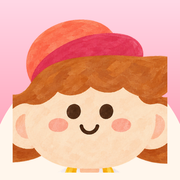
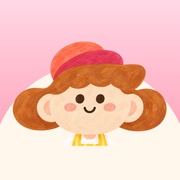
아이콘 얼굴 수정 · 보이는 높이 기준 크기 · 맵 맨 아래 시작 · 아이폰 햅틱

diff --git a/sw.js b/sw.js
@@ -1,7 +1,7 @@
 // 서비스 워커 (tools/build_pwa.py 가 버전과 파일 목록을 채워 dist/sw.js 로 만든다)
 // 설치 때 게임 파일을 전부 저장해 두고, 그 뒤로는 저장된 것을 먼저 쓴다 → 오프라인에서도 열린다.
 // 파일이 바뀌면 버전이 달라져 새 워커가 설치되고, 앱을 다시 열면 새 버전이 뜬다.
-const VERSION = '03ef19c49d';
+const VERSION = '3631c23f21';
 const CACHE = 'hanja7-' + VERSION;
 const FILES = ["index.html", "manifest.webmanifest", "css/style.css", "css/tune.css", "css/ui-kit.css", "js/main.js", "js/quiz.js", "js/wall.js", "js/core/audio.js", "js/core/demo.js", "js/core/scale.js", "js/core/skin.js", "js/core/store.js", "js/core/tune.js", "js/core/tunePanel.js", "js/core/ui.js", "js/screens/book.js", "js/screens/diary.js", "js/screens/game.js", "js/screens/learn.js", "js/screens/map.js", "js/screens/result.js", "js/screens/stickers.js", "js/screens/title.js", "js/data/charStickers.js", "js/data/hanja.js", "js/data/stages.js", "js/data/tuning.json", "icons/apple-touch-icon.png", "icons/icon-192.png", "icons/icon-512.png", "assets/ui/panel/mask_panel_avatar_chat.png", "assets/ui/panel/mask_panel_avatar_frame.png", "assets/ui/panel/mask_panel_avatar_profile.png", "assets/ui/panel/notebook_page.png", "assets/ui/panel/notebook_short.png", "assets/ui/panel/panel_avatar_chat.png", "assets/ui/panel/panel_avatar_frame.png", "assets/ui/panel/panel_avatar_profile.png", "assets/ui/panel/panel_bottom_sheet.png", "assets/ui/panel/panel_chat_bubble.png", "assets/ui/panel/panel_chat_bubble_2.png", "assets/ui/panel/panel_chat_bubble_2_body.png", "assets/ui/panel/panel_chat_bubble_2_tail.png", "assets/ui/panel/panel_currency_pill.png", "assets/ui/panel/panel_divider_dash.png", "assets/ui/panel/panel_header_pill.png", "assets/ui/panel/panel_item_cell.png", "assets/ui/panel/panel_label_pill.png", "assets/ui/panel/panel_mission.png", "assets/ui/panel/panel_modal_card.png", "assets/ui/panel/panel_notebook.png", "assets/ui/panel/panel_photo_card.png", "assets/ui/panel/panel_product_card.png", "assets/ui/panel/panel_profile.png", "assets/ui/panel/panel_ribbon.png", "assets/ui/panel/panel_ribbon_pink.png", "assets/ui/panel/panel_xpbar_fill.png", "assets/ui/panel/panel_xpbar_track.png", "assets/ui/fx/fx_sparkle_sheet.png", "assets/ui/sticker/sticker_ribbon.png", "assets/ui/btn/btn_back_round.png", "assets/ui/btn/btn_close_round.png", "assets/ui/btn/btn_coating.png", "assets/ui/btn/btn_cta.png", "assets/ui/btn/btn_map_node.png", "assets/ui/btn/btn_menu.png", "assets/ui/btn/btn_modal.png", "assets/ui/btn/btn_next_round.png", "assets/ui/btn/btn_radio_off.png", "assets/ui/btn/btn_radio_on.png", "assets/ui/btn/btn_slot.png", "assets/ui/btn/btn_tab_off.png", "assets/ui/btn/btn_tab_on.png", "assets/ui/map/badge_clear.png", "assets/ui/map/bg_map_candy.jpg", "assets/ui/map/card_frame.png", "assets/ui/map/lock_blue.png", "assets/ui/map/lock_gold.png", "assets/ui/map/lock_green.png", "assets/ui/map/lock_orange.png", "assets/ui/map/lock_pink.png", "assets/ui/map/lock_purple.png", "assets/ui/map/lock_silver.png", "assets/ui/map/node_blue.png", "assets/ui/map/node_grape.png", "assets/ui/map/node_kiwi.png", "assets/ui/map/node_lock.png", "assets/ui/map/node_muscat.png", "assets/ui/map/node_orange.png", "assets/ui/map/node_straw.png", "assets/ui/map/star_pink.png", "assets/ui/map/_unused/gate_ch2.png", "assets/ui/map/_unused/ground.png", "assets/ui/map/_unused/map.json", "assets/ui/map/_unused/road_brown.png", "assets/ui/map/_unused/road_pink.png", "assets/ui/map/_unused/stall_1.png", "assets/ui/map/_unused/stall_1_lock.png", "assets/ui/map/_unused/stall_2.png", "assets/ui/map/_unused/stall_2_lock.png", "assets/ui/map/_unused/stall_3.png", "assets/ui/map/_unused/stall_3_lock.png", "assets/ui/map/_unused/stall_4.png", "assets/ui/map/_unused/stall_4_lock.png", "assets/ui/map/_unused/stall_5.png", "assets/ui/map/_unused/stall_5_lock.png", "assets/ui/map/_unused/stall_6.png", "assets/ui/map/_unused/stall_6_lock.png", "assets/ui/map/_unused/stall_7.png", "assets/ui/map/_unused/win_clear.png", "assets/ui/map/_unused/win_open.png", "assets/ui/cook/jar_choco.png", "assets/ui/cook/jar_rainbow.png", "assets/ui/cook/jar_sugar.png", "assets/ui/cook/pot.png", "assets/ui/cook/pot_syrup_choco.png", "assets/ui/cook/pot_syrup_rainbow.png", "assets/ui/cook/pot_syrup_sugar.png", "assets/ui/cook/stick.png", "assets/ui/ptn/ptn_dash_grid.png", "assets/ui/bg/bg_awning.png", "assets/ui/bg/bg_coating.jpg", "assets/ui/bg/bg_done.jpg", "assets/ui/bg/bg_map_path.png", "assets/ui/bg/bg_result.jpg", "assets/ui/bg/bg_sale.jpg", "assets/ui/bg/bg_splash.jpg", "assets/ui/icon/icon_book.png", "assets/ui/icon/icon_dropzone.png", "assets/ui/icon/icon_heart.png", "assets/ui/icon/icon_jelly.png", "assets/ui/icon/icon_lock.png", "assets/ui/icon/icon_notif_dot.png", "assets/ui/icon/icon_pencil.png", "assets/ui/icon/icon_pin.png", "assets/ui/icon/icon_skewer_progress.png", "assets/ui/icon/icon_speaker.png", "assets/ui/icon/icon_star_empty.png", "assets/ui/icon/icon_star_empty_2.png", "assets/ui/icon/icon_star_full.png", "assets/ui/icon/icon_star_full_2.png", "assets/ui/icon/icon_step_current.png", "assets/ui/icon/icon_step_done.png", "assets/ui/icon/icon_sticker.png", "assets/ui/icon/icon_stir_arrow.png", "assets/chars/bear.png", "assets/chars/boss.png", "assets/chars/cat.png", "assets/chars/dog.png", "assets/chars/face_bear.png", "assets/chars/face_boss.png", "assets/chars/face_cat.png", "assets/chars/face_dog.png", "assets/chars/face_owl.png", "assets/chars/face_rabbit.png", "assets/chars/owl.png", "assets/chars/rabbit.png", "assets/chars/roles.json", "assets/chars/stk/01.png", "assets/chars/stk/02.png", "assets/chars/stk/03.png", "assets/chars/stk/04.png", "assets/chars/stk/05.png", "assets/chars/stk/06.png", "assets/chars/stk/08.png", "assets/chars/stk/10.png", "assets/chars/stk/11.png", "assets/chars/stk/12.png", "assets/chars/stk/13.png", "assets/chars/stk/16.png", "assets/chars/stk/17.png", "assets/chars/stk/18.png", "assets/chars/stk/19.png", "assets/chars/stk/20.png", "assets/chars/stk/23.png", "assets/chars/stk/24.png", "assets/img/bowl.svg", "assets/img/char_bear.svg", "assets/img/char_bear_happy.svg", "assets/img/char_boss.svg", "assets/img/char_boss_happy.svg", "assets/img/char_cat.svg", "assets/img/char_cat_happy.svg", "assets/img/char_dog.svg", "assets/img/char_dog_happy.svg", "assets/img/char_owl.svg", "assets/img/char_owl_happy.svg", "assets/img/char_rabbit.svg", "assets/img/char_rabbit_happy.svg", "assets/img/fruit_blueberry.svg", "assets/img/fruit_blueberry_one.svg", "assets/img/fruit_goldberry.svg", "assets/img/fruit_grape.svg", "assets/img/fruit_grape_one.svg", "assets/img/fruit_kiwi.svg", "assets/img/fruit_muscat.svg", "assets/img/fruit_muscat_one.svg", "assets/img/fruit_pineapple.svg", "assets/img/fruit_strawberry.svg", "assets/img/fruit_tangerine.svg", "assets/img/fruit_tangerine_seg.svg", "assets/img/fruit_tomato.svg", "assets/img/hand.svg", "assets/img/jar_choco.svg", "assets/img/jar_rainbow.svg", "assets/img/jar_sugar.svg", "assets/img/jelly.svg", "assets/img/map_bg.svg", "assets/img/pot.svg", "assets/img/pot_choco.svg", "assets/img/pot_rainbow.svg", "assets/img/pot_sugar.svg", "assets/img/star_off.svg", "assets/img/star_on.svg", "assets/img/sticker_badge.svg", "assets/img/sticker_energy.svg", "assets/img/sticker_flower.svg", "assets/img/sticker_ribbon.svg", "assets/img/sticker_seasons.svg", "assets/img/sticker_sky.svg", "assets/img/sun.svg", "assets/fruits/apple.png", "assets/fruits/apple_piece.png", "assets/fruits/apple_piece_choco.png", "assets/fruits/apple_piece_rainbow.png", "assets/fruits/apple_piece_sugar.png", "assets/fruits/avocado.png", "assets/fruits/avocado_piece.png", "assets/fruits/avocado_piece_choco.png", "assets/fruits/avocado_piece_rainbow.png", "assets/fruits/avocado_piece_sugar.png", "assets/fruits/banana.png", "assets/fruits/banana_piece.png", "assets/fruits/banana_piece_choco.png", "assets/fruits/banana_piece_rainbow.png", "assets/fruits/banana_piece_sugar.png", "assets/fruits/blueberry.png", "assets/fruits/blueberry_piece.png", "assets/fruits/blueberry_piece_choco.png", "assets/fruits/blueberry_piece_rainbow.png", "assets/fruits/blueberry_piece_sugar.png", "assets/fruits/cherry.png", "assets/fruits/cherry_piece.png", "assets/fruits/cherry_piece_choco.png", "assets/fruits/cherry_piece_rainbow.png", "assets/fruits/cherry_piece_sugar.png", "assets/fruits/dragonfruit.png", "assets/fruits/dragonfruit_piece.png", "assets/fruits/dragonfruit_piece_choco.png", "assets/fruits/dragonfruit_piece_rainbow.png", "assets/fruits/dragonfruit_piece_sugar.png", "assets/fruits/grape.png", "assets/fruits/grape_piece.png", "assets/fruits/grape_piece_choco.png", "assets/fruits/grape_piece_rainbow.png", "assets/fruits/grape_piece_sugar.png", "assets/fruits/gummybear.png", "assets/fruits/gummybear_piece.png", "assets/fruits/gummybear_piece_choco.png", "assets/fruits/gummybear_piece_rainbow.png", "assets/fruits/gummybear_piece_sugar.png", "assets/fruits/kiwi.png", "assets/fruits/kiwi_piece.png", "assets/fruits/kiwi_piece_choco.png", "assets/fruits/kiwi_piece_rainbow.png", "assets/fruits/kiwi_piece_sugar.png", "assets/fruits/melon.png", "assets/fruits/melon_piece.png", "assets/fruits/melon_piece_choco.png", "assets/fruits/melon_piece_rainbow.png", "assets/fruits/melon_piece_sugar.png", "assets/fruits/mushroom.png", "assets/fruits/mushroom_piece.png", "assets/fruits/mushroom_piece_choco.png", "assets/fruits/mushroom_piece_rainbow.png", "assets/fruits/mushroom_piece_sugar.png", "assets/fruits/passionfruit.png", "assets/fruits/passionfruit_piece.png", "assets/fruits/passionfruit_piece_choco.png", "assets/fruits/passionfruit_piece_rainbow.png", "assets/fruits/passionfruit_piece_sugar.png", "assets/fruits/peach.png", "assets/fruits/peach_piece.png", "assets/fruits/peach_piece_choco.png", "assets/fruits/peach_piece_rainbow.png", "assets/fruits/peach_piece_sugar.png", "assets/fruits/pineapple.png", "assets/fruits/pineapple_piece.png", "assets/fruits/pineapple_piece_choco.png", "assets/fruits/pineapple_piece_rainbow.png", "assets/fruits/pineapple_piece_sugar.png", "assets/fruits/rainbowjelly.png", "assets/fruits/rainbowjelly_piece.png", "assets/fruits/rainbowjelly_piece_choco.png", "assets/fruits/rainbowjelly_piece_rainbow.png", "assets/fruits/rainbowjelly_piece_sugar.png", "assets/fruits/strawberry.png", "assets/fruits/strawberry_piece.png", "assets/fruits/strawberry_piece_choco.png", "assets/fruits/strawberry_piece_rainbow.png", "assets/fruits/strawberry_piece_sugar.png", "assets/fruits/tangerine.png", "assets/fruits/tangerine_piece.png", "assets/fruits/tangerine_piece_choco.png", "assets/fruits/tangerine_piece_rainbow.png", "assets/fruits/tangerine_piece_sugar.png", "assets/fruits/tomato.png", "assets/fruits/tomato_piece.png", "assets/fruits/tomato_piece_choco.png", "assets/fruits/tomato_piece_rainbow.png", "assets/fruits/tomato_piece_sugar.png", "assets/fruits/watermelon.png", "assets/fruits/watermelon_piece.png", "assets/fruits/watermelon_piece_choco.png", "assets/fruits/watermelon_piece_rainbow.png", "assets/fruits/watermelon_piece_sugar.png", "assets/fonts/ONEMobilePOP.ttf"];
 

diff --git a/js/core/scale.js b/js/core/scale.js
@@ -10,7 +10,13 @@ export function applyScale() {
   const app = document.getElementById('app');
   const probe = document.getElementById('safe-probe');
   const stage = document.getElementById('stage');                      // 조정 모드 패널이 붙으면 그만큼 좁아진다
-  const vw = stage ? stage.clientWidth : window.innerWidth, vh = stage ? stage.clientHeight : window.innerHeight;
+  // 아이폰 홈 화면 앱은 innerHeight 가 실제 보이는 높이보다 클 때가 있다 → visualViewport(실제 보이는 영역)와 비교해 작은 쪽을 쓴다
+  const vv = window.visualViewport;
+  const tuning = document.body.classList.contains('tuning');
+  const vw = stage ? stage.clientWidth : window.innerWidth;
+  let vh = stage ? stage.clientHeight : window.innerHeight;
+  if (!tuning && vv && vv.height && vv.height < vh) vh = Math.floor(vv.height);
+  if (stage && !tuning) stage.style.height = vh + 'px';                  // 무대도 보이는 높이에 맞춘다 (가운데 정렬이 어긋나지 않게)
   let scale = vw / BASE_W;
   let h = vh / scale;
   if (document.body.classList.contains('tuning')) {       // 조정 모드: 항상 기준 화면(393×852)으로 보여 준다 → 조정한 값이 스크린샷과 같다
@@ -35,6 +41,15 @@ export function applyScale() {
   view.left = r.left; view.top = r.top;
   document.documentElement.style.setProperty('--safe-top', view.safeTop.toFixed(1) + 'px');
   document.documentElement.style.setProperty('--safe-bottom', view.safeBottom.toFixed(1) + 'px');
+  if (q.has('debug')) debugReadout(vw, vh, st, sb, scale, h);
+}
+
+/** ?debug=1: 화면 왼쪽 아래에 수치를 보여 준다 (아이폰에서 잘림 원인을 볼 때) */
+function debugReadout(vw, vh, st, sb, scale, h) {
+  let d = document.getElementById('dbg-readout');
+  if (!d) { d = document.createElement('div'); d.id = 'dbg-readout'; d.style.cssText = 'position:fixed;left:4px;bottom:4px;z-index:9999;background:rgba(0,0,0,.7);color:#fff;font:11px/1.3 monospace;padding:4px 6px;border-radius:6px;pointer-events:none;white-space:pre'; document.body.append(d); }
+  const vv = window.visualViewport;
+  d.textContent = `win ${window.innerWidth}x${window.innerHeight}  vv ${vv ? Math.round(vv.width) + 'x' + Math.round(vv.height) : '-'}\nstage ${vw}x${vh}  screen ${screen.width}x${screen.height}\nsafe ${st.toFixed(0)}/${sb.toFixed(0)}  scale ${scale.toFixed(3)}  h ${h.toFixed(0)}\nstandalone ${navigator.standalone ? 'yes' : 'no'}`;
 }
 
 /** 화면(클라이언트) 좌표 → 앱 논리 좌표 */
@@ -52,4 +67,7 @@ export function initScale() {
   applyScale();
   window.addEventListener('resize', applyScale);
   window.addEventListener('orientationchange', () => setTimeout(applyScale, 120));
+  if (window.visualViewport) window.visualViewport.addEventListener('resize', applyScale);
+  window.addEventListener('pageshow', applyScale);
+  [150, 500, 1200, 2500].forEach(ms => setTimeout(applyScale, ms));      // 홈 화면 앱은 처음 몇 백 ms 동안 뷰포트 값이 바뀐다
 }

diff --git a/js/core/audio.js b/js/core/audio.js
@@ -74,8 +74,25 @@ function noiseBurst(dur, vol) {
   src.connect(f); f.connect(g); g.connect(c.destination); src.start();
 }
 
-/** 진동 (안드로이드 크롬 등 지원하는 기기에서만. 아이폰 사파리는 웹에서 진동을 막아 두어 아무 일도 안 일어난다) */
-export function buzz(ms = 15) { try { if (navigator.vibrate) navigator.vibrate(ms); } catch (e) { /* 지원 안 함 */ } }
+/** 진동. 안드로이드: navigator.vibrate. 아이폰: 웹에 진동 API 가 없어서 iOS 18+ 가 <input type=checkbox switch> 를 켤 때 내는 햅틱을 빌린다
+ *  (터치 이벤트 안에서 불러야 울린다. 진동 한 번 = 스위치 한 번 토글) */
+let hapticSwitch = null;
+function iosHaptic() {
+  if (!hapticSwitch) {
+    const lab = document.createElement('label');
+    lab.style.cssText = 'position:fixed;left:0;top:0;width:1px;height:1px;opacity:0.01;overflow:hidden;pointer-events:none;z-index:-1';
+    hapticSwitch = document.createElement('input'); hapticSwitch.type = 'checkbox'; hapticSwitch.setAttribute('switch', '');
+    lab.append(hapticSwitch); document.body.append(lab);
+  }
+  hapticSwitch.click();
+}
+export function buzz(ms = 15) {
+  try {
+    if (navigator.vibrate) { navigator.vibrate(ms); return; }
+    const strong = Array.isArray(ms) ? ms.length : (ms >= 30 ? 2 : 1);
+    for (let i = 0; i < strong; i++) setTimeout(iosHaptic, i * 70);
+  } catch (e) { /* 지원 안 함 */ }
+}
 
 // ---------- 배경 음악: 파일 없이 WebAudio 로 연주하는 8마디 루프 (잔잔하고 경쾌하게, 다장조 112 BPM) ----------
 const BPM = 112, STEP = 60 / BPM / 2;   // 8분음표 하나의 길이 (초)

diff --git a/js/core/tune.js b/js/core/tune.js
@@ -7,7 +7,7 @@ export const TUNE_DEFAULTS = {
               panelPadX: 18, panelPadTop: 22, sbX: 12, sbTop: 118, sbBottom: 12, scrollW: 6, labelY: 5, stickerScale: 74, hanjaScale: 84, hanjaFont: 56, hunSize: 30, tabSize: 58, tabGap: 12, hintSize: 13, hintGap: 10 },
   map:    { profX: 12, profY: 6, profW: 208, profH: 82, profAvatar: 60, nameSize: 14.5, nameX: 0, nameY: 0, barW: 0, barH: 14, barX: 0, barY: 0,
             n1X: 88, n1Y: 1080, n2X: 262, n2Y: 898, n3X: 72, n3Y: 640, n4X: 300, n4Y: 480, n5X: 320, n5Y: 330, n6X: 255, n6Y: 215, gateX: 182, gateY: 95, gateLockX: 33, gateLockY: 34, gateLockSize: 40,
-            cam1Y: 481, cam2Y: 333, cam3Y: 0, camView: 0 },
+            cam1Y: 528, cam2Y: 333, cam3Y: 0, camView: 0 },
   book:   { sbX: 8, sbTop: 100, sbBottom: 26, scrollW: 6 },
   game:   { fruitSize: 137, gap: 64, stickLength: 0, tipCover: 9, x: 0, y: 0, pillsX: 16, pillsY: 38,
             backX: 14, backY: 2, backSize: 42, noteX: 0, noteY: 0, noteW: 300, noteH: 146, tilesX: 14, tilesY: 0, tileSize: 0, tileGap: 0, fruitScale: 72, tagX: 0, tagY: 0, tagScale: 100, dotsX: 30, dotsY: 4, dotSize: 30, dotGap: 12 },

diff --git a/js/core/tunePanel.js b/js/core/tunePanel.js
@@ -98,7 +98,7 @@ const FIELDS = {
   gateLockY: ['분홍 자물쇠 위아래', -100, 160, '(px)'],
   gateLockSize: ['분홍 자물쇠 크기', 16, 120, '(px)'],
   camView: ['미리 볼 맵 화면', 0, 3, '조정 모드에서만: 0 = 진행 따라, 1 = 1~3번, 2 = 4~5번, 3 = 6번(끝까지)'],
-  cam1Y: ['1~3번 화면 위치', 0, 700, '맵을 얼마나 내려서 보여 줄지 (px, 클수록 아래쪽)'],
+  cam1Y: ['1~3번 화면 위치', 0, 700, '맵을 얼마나 내려서 보여 줄지 (px, 클수록 아래쪽). 528 = 맨 아래'],
   cam2Y: ['4~5번 화면 위치', 0, 700, '(px)'],
   cam3Y: ['6번 화면 위치', 0, 700, '0 = 맨 위 (2장 문까지)'],
   sparkX: ['반짝이 가운데 좌우', -150, 150, '탕후루 주위 반짝이 (가운데 기준 px). 화면에서 끌어도 돼요'],
